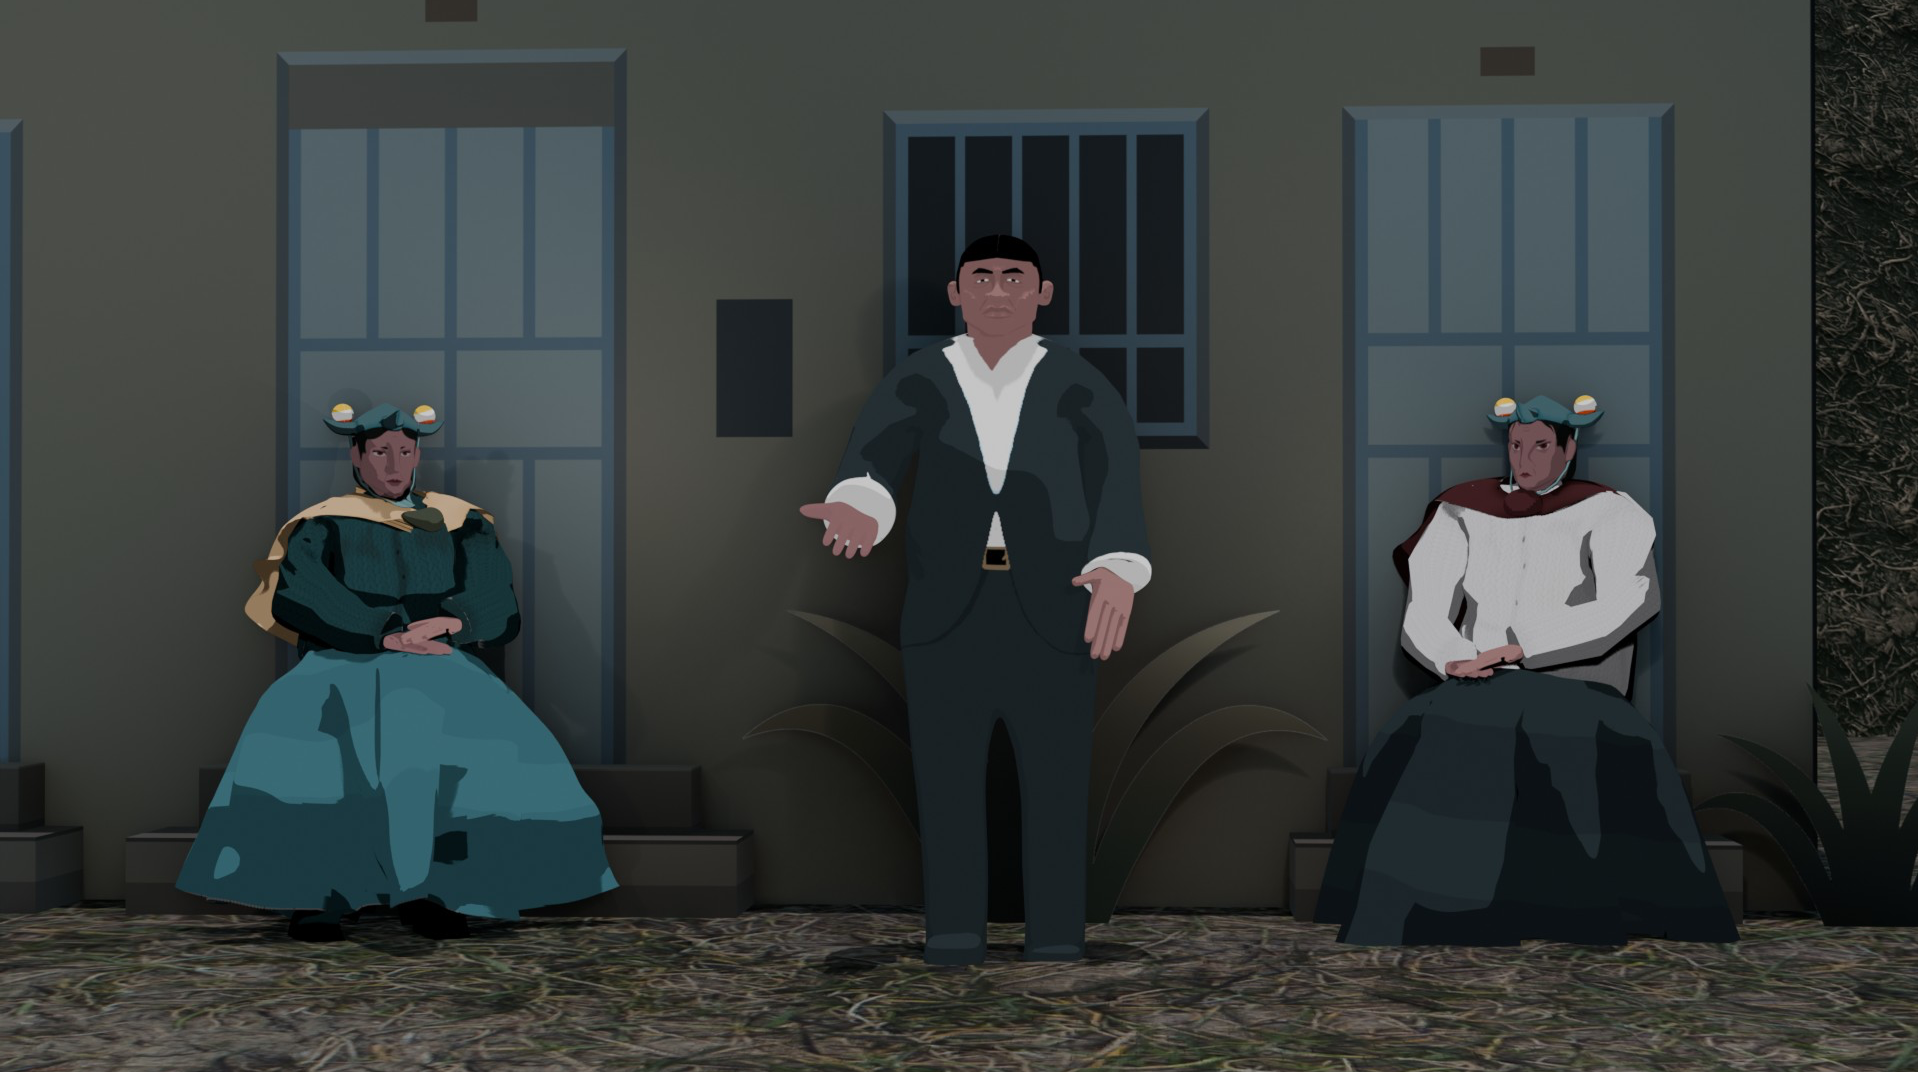
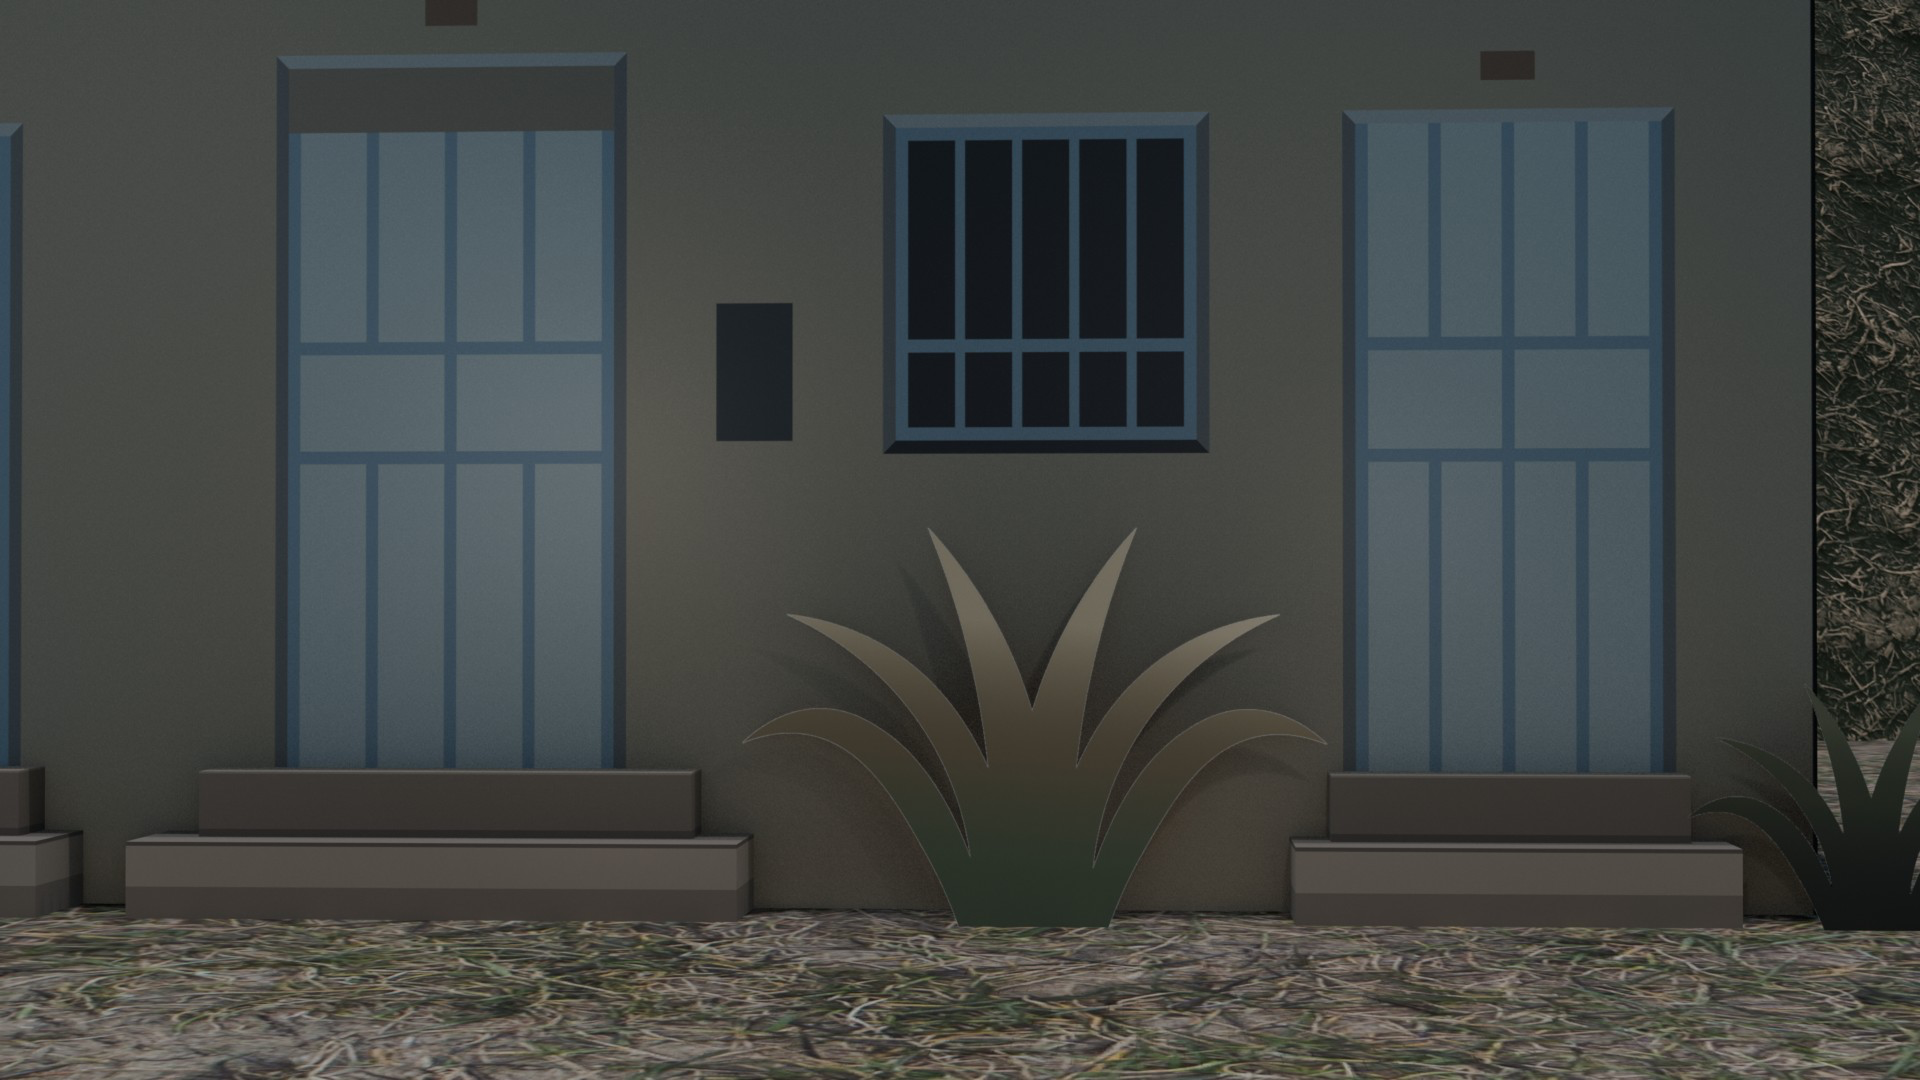
fix: make characters clickeable in testimonials section

diff --git a/src/features/05-Capachica/components/testimonials/TestimonialBackground.tsx b/src/features/05-Capachica/components/testimonials/TestimonialBackground.tsx
@@ -1,7 +1,6 @@
 /**
  * Interactive testimonial map view that displays selectable characters and contextual tooltips.
  */
-
 import { useState } from "react";
 import { TESTIMONIAL_BACKGROUND, TESTIMONIAL_TITLE, TESTIMONIAL_SUBTITLE } from "../../constants/testimonial.constants";
 import type { Testimonial } from "../../types/TestimonialType";
@@ -34,31 +33,57 @@ export const TestimonialBackground = ({ testimonials, onSelectPerson }: Testimon
   const handleMouseLeave = () => setTooltip(null);
 
   return (
-    <div className="relative w-full overflow-hidden">
-      <img src={TESTIMONIAL_BACKGROUND} alt="Testimonios" className="block h-auto w-full" />
+    <div className="relative h-screen w-full overflow-hidden">
+      <img
+        src={TESTIMONIAL_BACKGROUND}
+        alt="Testimonios"
+        className="absolute inset-0 z-0 h-full w-full object-cover"
+      />
 
-      <p className="absolute left-1/2 top-10 z-10 flex -translate-x-1/2 items-center whitespace-nowrap text-center font-[Citizen] text-[40px] font-bold uppercase tracking-[0.02em] text-[#F5F5F5]">
+      <div className="absolute bottom-[18%] left-1/2 z-10 flex w-full max-w-275 -translate-x-1/2 items-end justify-center gap-1 px-4 sm:bottom-[2%] sm:gap-3 sm:px-6 md:bottom-[6%] md:gap-6 lg:bottom-0 lg:px-8">
+        {testimonials.map((t, i) => (
+          <button
+            key={t.id}
+            type="button"
+            onClick={() => onSelectPerson(t.id)}
+            onMouseMove={(e) => handleMouseMove(e, `Conocer testimonio de ${t.name}`, TOOLTIP_STYLES[i])}
+            onMouseLeave={handleMouseLeave}
+            onTouchStart={(e) => {
+              const touch = e.touches[0];
+              handleMouseMove(
+                { clientX: touch.clientX, clientY: touch.clientY } as unknown as React.MouseEvent,
+                `Conocer testimonio de ${t.name}`,
+                TOOLTIP_STYLES[i]
+              );
+            }}
+            aria-label={`Ver testimonio de ${t.name}`}
+            className="block w-1/3 cursor-pointer p-0 leading-none focus:outline-none"
+          >
+            <img
+              src={t.seatedImage}
+              alt={`Personaje ${t.name}`}
+              className="block h-auto w-full select-none pointer-events-none drop-shadow-lg transition-transform duration-200 hover:scale-105"
+              draggable={false}
+            />
+          </button>
+        ))}
+      </div>
+
+      <p className="absolute left-1/2 top-4 z-20 w-full -translate-x-1/2 px-4 text-center font-[Citizen] text-[20px] font-bold uppercase leading-tight tracking-[0.02em] text-[#F5F5F5] sm:top-6 sm:text-[28px] md:top-8 md:text-[34px] lg:top-10 lg:text-[40px]">
         {TESTIMONIAL_TITLE}
       </p>
-
-      <p className="absolute bottom-10 left-1/2 z-10 -translate-x-1/2 whitespace-nowrap text-center font-[Citizen] text-[26px] font-normal text-white" style={{ WebkitTextStroke: "3.2px #151B1B", paintOrder: "stroke fill" }}>
+      <p
+        className="absolute bottom-4 left-1/2 z-20 w-full -translate-x-1/2 px-4 text-center font-[Citizen] text-[13px] font-normal leading-snug text-white sm:bottom-6 sm:text-[18px] md:bottom-8 md:text-[22px] lg:bottom-10 lg:text-[26px]"
+        style={{ WebkitTextStroke: "2px #151B1B", paintOrder: "stroke fill" }}
+      >
         {TESTIMONIAL_SUBTITLE}
       </p>
 
-      {testimonials.map((t, i) => (
-        <button
-          key={t.id}
-          onClick={() => onSelectPerson(t.id)}
-          onMouseMove={(e) => handleMouseMove(e, `Conocer testimonio de ${t.name}`, TOOLTIP_STYLES[i])}
-          onMouseLeave={handleMouseLeave}
-          aria-label={`Ver testimonio de ${t.name}`}
-          className="absolute cursor-pointer"
-          style={{ left: t.clickArea.left, top: t.clickArea.top, width: t.clickArea.width, height: t.clickArea.height }}
-        />
-      ))}
-
       {tooltip && (
-        <div className={`fixed z-50 rounded-lg px-4 py-2 text-sm font-bold shadow-lg pointer-events-none ${tooltip.colorClass}`} style={{ left: tooltip.x + 14, top: tooltip.y + 14 }}>
+        <div
+          className={`fixed z-50 hidden rounded-lg px-3 py-2 text-xs font-bold shadow-lg pointer-events-none sm:block sm:px-4 sm:text-sm ${tooltip.colorClass}`}
+          style={{ left: tooltip.x + 14, top: tooltip.y + 14 }}
+        >
           {tooltip.text}
         </div>
       )}

diff --git a/src/features/05-Capachica/constants/testimonial.constants.ts b/src/features/05-Capachica/constants/testimonial.constants.ts
@@ -1,14 +1,14 @@
 /**
  * Centralized testimonial content, assets and interactive area definitions.
  */
-
 import bg from "../assets/testimonials/images/testimonials-background.png";
-import person1Bg from "../assets/testimonials/images/capachica-landscape-background.png";
-import person2Bg from "../assets/testimonials/images/capachica-landscape-background.png";
-import person3Bg from "../assets/testimonials/images/capachica-landscape-background.png";
-import felicianaChar from "../assets/testimonials/images/feliciana-character.png";
+import bgPersonView from "../assets/testimonials/images/capachica-landscape-background.png";
+import feliciana from "../assets/testimonials/images/feliciana-character.png";
 import juliana from "../assets/testimonials/images/juliana-character.png";
-import victorChar from "../assets/testimonials/images/victor-character.png";
+import victor from "../assets/testimonials/images/victor-character.png";
+import julianaSeated from "../assets/testimonials/images/juliana-seated.png";
+import felicianaSeated from "../assets/testimonials/images/feliciana-seated.png";
+import victorStand from "../assets/testimonials/images/victor-stand.png";
 import type { Testimonial } from "../types/TestimonialType";
 
 export const TESTIMONIAL_BACKGROUND = bg;
@@ -23,10 +23,11 @@ export const TESTIMONIALS: Testimonial[] = [
       { id: 1, text: "La contaminación viene de ese río. Nosotros no tomamos, solo a nuestros animales les hacemos tomar. No estoy bien; me duele todo mi cuerpo, todo, todito. Mi oído ya no escucha." },
       { id: 2, text: "Mis pies me duelen demasiado. Ahora tengo que cubrirlos con trapos. Ya no puedo caminar como antes; se me hace imposible ir lejos, solo logro avanzar distancias muy cortas. " },
     ],
-    backgroundImage: person1Bg,
-    characterImage: felicianaChar,
+    backgroundImage: bgPersonView,
+    characterImage: feliciana,
+    seatedImage: felicianaSeated,
     audioSrc: "/src/assets/testimonios/audio-1.mp3",
-    clickArea: { left: "10%", top: "35%", width: "22%", height: "50%" },
+    position: { left: "50%", bottom: "0%", width: "26%" },
   },
   {
     id: 2,
@@ -34,10 +35,11 @@ export const TESTIMONIALS: Testimonial[] = [
     testimony: [
       { id: 1, text: "Para el ganado estamos consumiendo agua del subsuelo; por eso les da diarrea y no pueden engordar. Nosotros vivimos de esto, y si vas al borde del río Coata, por los desbordes, la agricultura tampoco produce ya." },
     ],
-    backgroundImage: person2Bg,
-    characterImage: victorChar,
+    backgroundImage: bgPersonView,
+    characterImage: victor,
+    seatedImage: victorStand,
     audioSrc: "/src/assets/testimonios/audio-2.mp3",
-    clickArea: { left: "42%", top: "22%", width: "19%", height: "70%" },
+    position: { left: "50%", bottom: "0%", width: "24%" },
   },
   {
     id: 3,
@@ -47,9 +49,10 @@ export const TESTIMONIALS: Testimonial[] = [
       { id: 2, text: "Desde ahora ya no lo consumimos. Ya no han venido de nuevo a hacerme el análisis. Me dijeron que dentro de cuatro años debía hacerme analizar, pero no me han hecho los análisis. Ahora no se sabe si hay o no." },
       { id: 3, text: "Mi hija también tiene metal pesado y no ha recibido\ntratamiento en su colegio. Esto es grave, aquí en Puno ya falleció la señora Rufina y también el señor Alberto Paucar. Según los análisis, a causa del metal pesado." },
     ],
-    backgroundImage: person3Bg,
+    backgroundImage: bgPersonView,
     characterImage: juliana,
+    seatedImage: julianaSeated,
     audioSrc: "/src/assets/testimonios/audio-3.mp3",
-    clickArea: { left: "70%", top: "35%", width: "22%", height: "55%" },
+    position: { left: "50%", bottom: "0%", width: "26%" },
   },
 ];

diff --git a/src/features/05-Capachica/types/TestimonialType.ts b/src/features/05-Capachica/types/TestimonialType.ts
@@ -1,7 +1,6 @@
 /**
  * Shared domain types used across the testimonial section.
  */
-
 export interface TestimonyItem {
   id: number;
   text: string;
@@ -13,11 +12,11 @@ export interface Testimonial {
   testimony: TestimonyItem[];
   backgroundImage: string;
   characterImage: string;
+  seatedImage: string;
   audioSrc: string;
-  clickArea: {
+  position: {
     left: string;
-    top: string;
+    bottom: string;
     width: string;
-    height: string;
   };
 }
